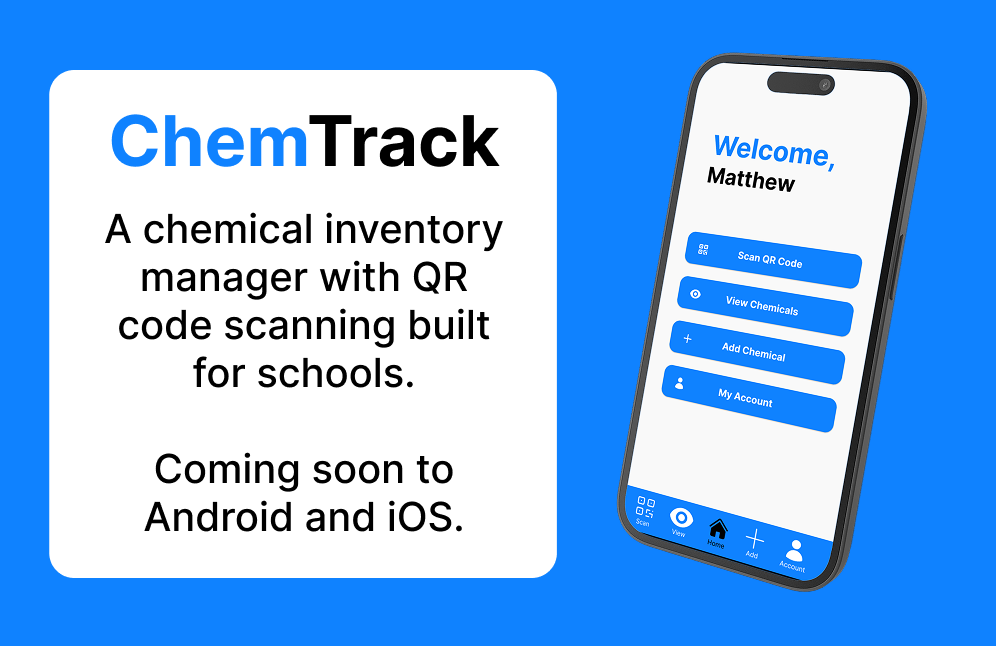
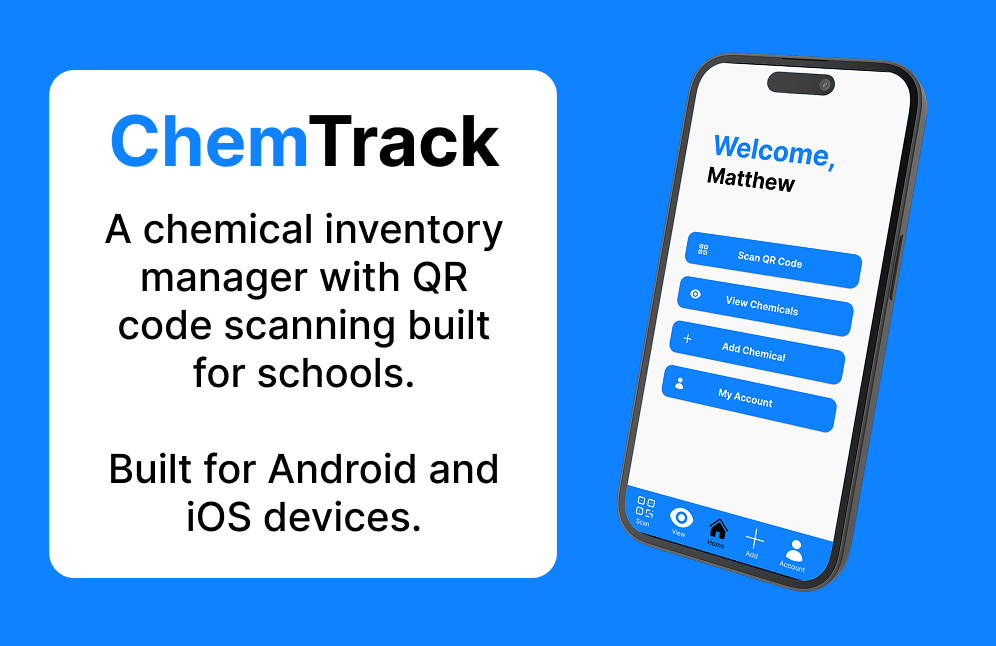
Update chemtrack and add scroll to projects sections

Changed region(s): [[0.0934, 0.6811, 0.498, 0.8359]]

diff --git a/src/data/projectsData.ts b/src/data/projectsData.ts
@@ -11,10 +11,10 @@ export const projects: Project[] = [
     // ChemTrack
     {
         title: 'ChemTrack',
-        desc: 'Designed and currently developing the ChemTrack iOS and Android mobile app.',
+        desc: 'Designed, developed, and deployed the ChemTrack mobile app for a client.',
         src: 'projects/ChemTrack.png',
-        alt: 'Blue background with a phone and the following text: ChemTrack: A chemical inventory manager with QR code scanning built for schools. Coming soon to Android and iOS.',
-        skills: ['React Native', 'TypeScript', 'Figma', 'Go'],
+        alt: 'Blue background with a phone and the following text: ChemTrack: A chemical inventory manager with QR code scanning built for schools. Built for Android and iOS devices.',
+        skills: ['React Native', 'Expo', 'TypeScript', 'Figma', 'Go', 'Jest', 'Agile'],
         buttons: [
             ['GitHub', 'https://github.com/ekjyotshinh/ChemTrack']
         ],
@@ -36,7 +36,7 @@ export const projects: Project[] = [
     {
         title: 'Compass for Canvas',
         desc: 'Placed 4th at Hornet Hacks 2024 for developing an AI-powered web app that helps students find course information.',
-        skills: ['React', 'TypeScript', 'Tailwind CSS'],
+        skills: ['React', 'TypeScript', 'Tailwind CSS', 'Python'],
         alt: 'White background with title: Compass for Canvas: Chat with your college courses. Shows a laptop with the compass website.',
         buttons: [
             ['GitHub', 'https://github.com/Desarso/canvas-rag-knead-uhjahb'],

diff --git a/src/components/sections/Projects.tsx b/src/components/sections/Projects.tsx
@@ -30,7 +30,7 @@ const ProjectBox = ({ project }: { project: Project }) => {
         >
             <img src={project.src} alt={project.alt} className='w-full h-auto' />
             <motion.div
-                className={`absolute h-full w-full bottom-0 left-0 bg-[var(--white)] text-[var(--black)] font-semibold text-[0.8rem] lg:text-[1rem] p-2.5`}
+                className={`overflow-y-auto absolute h-full w-full bottom-0 left-0 bg-[var(--white)] text-[var(--black)] font-semibold text-[0.8rem] lg:text-[1rem] p-2.5`}
                 initial={{ y: '100%', opacity: 0 }}
                 animate={{ y: isHover ? '0%' : '100%', opacity: isHover ? 1 : 0 }}
                 transition={{ duration: 0.35, ease: "easeInOut" }}
